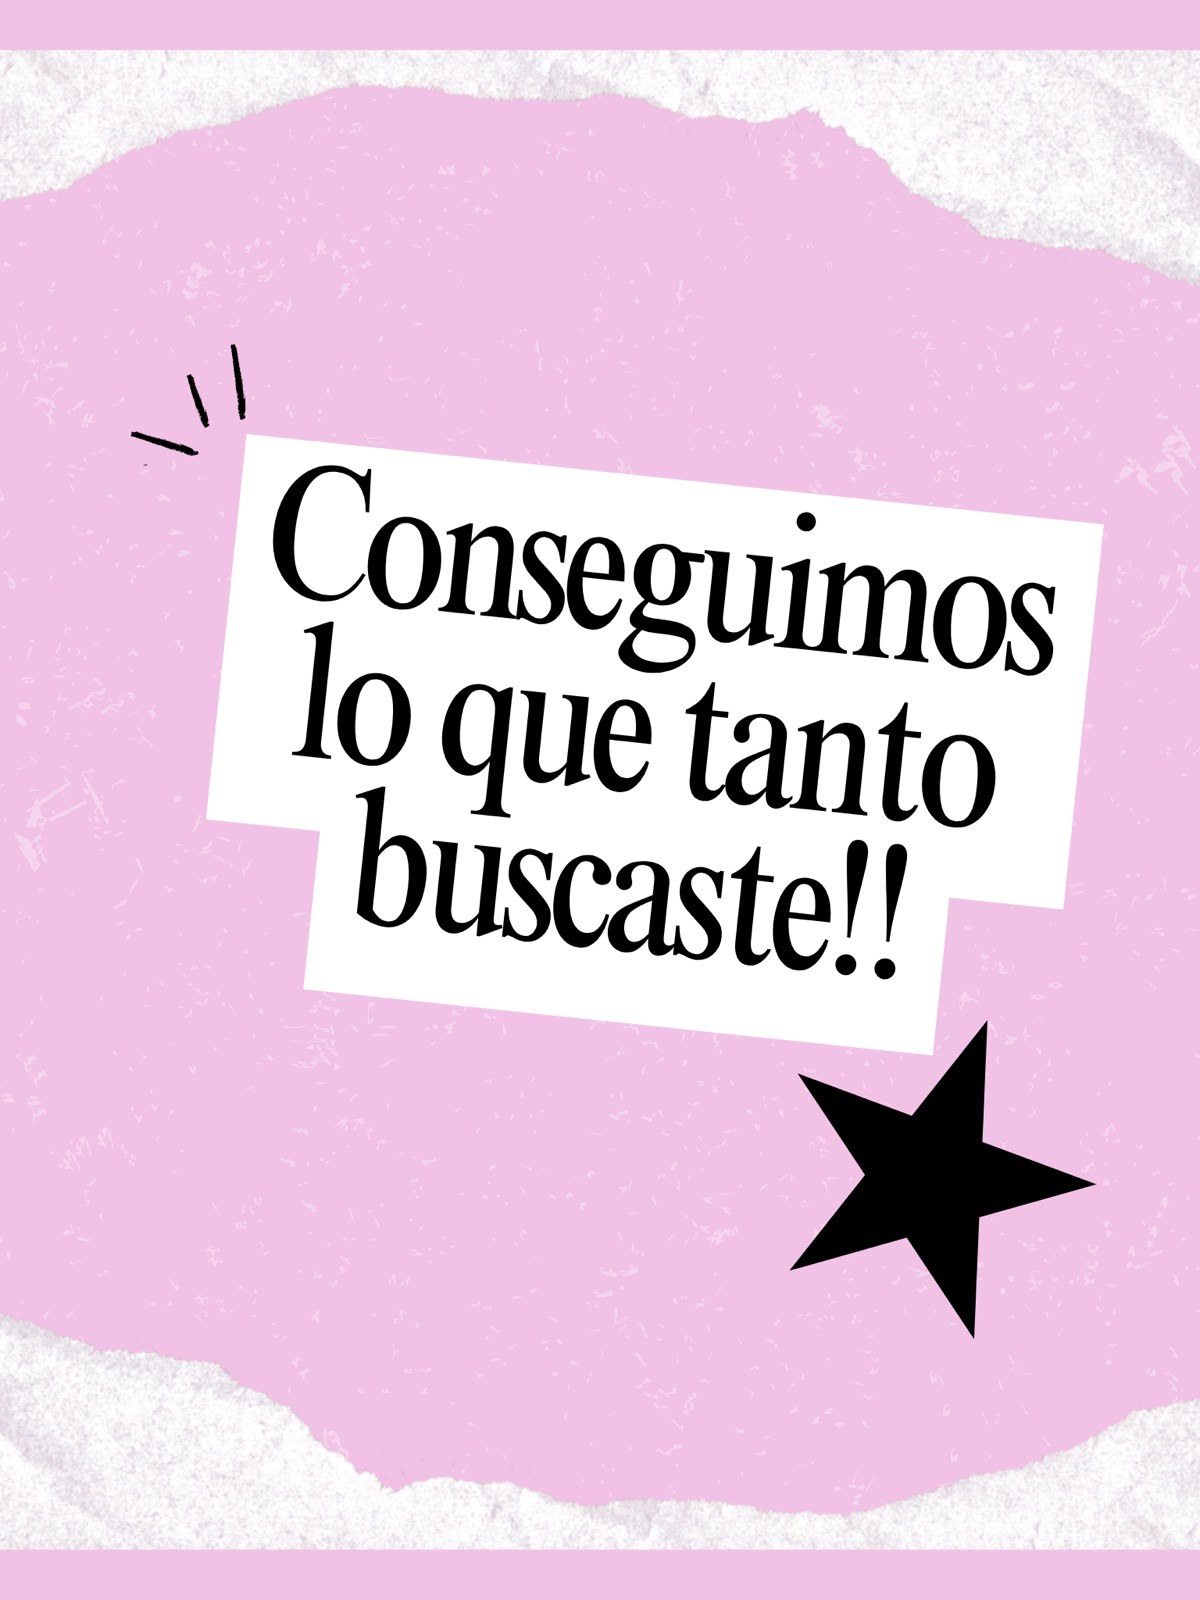
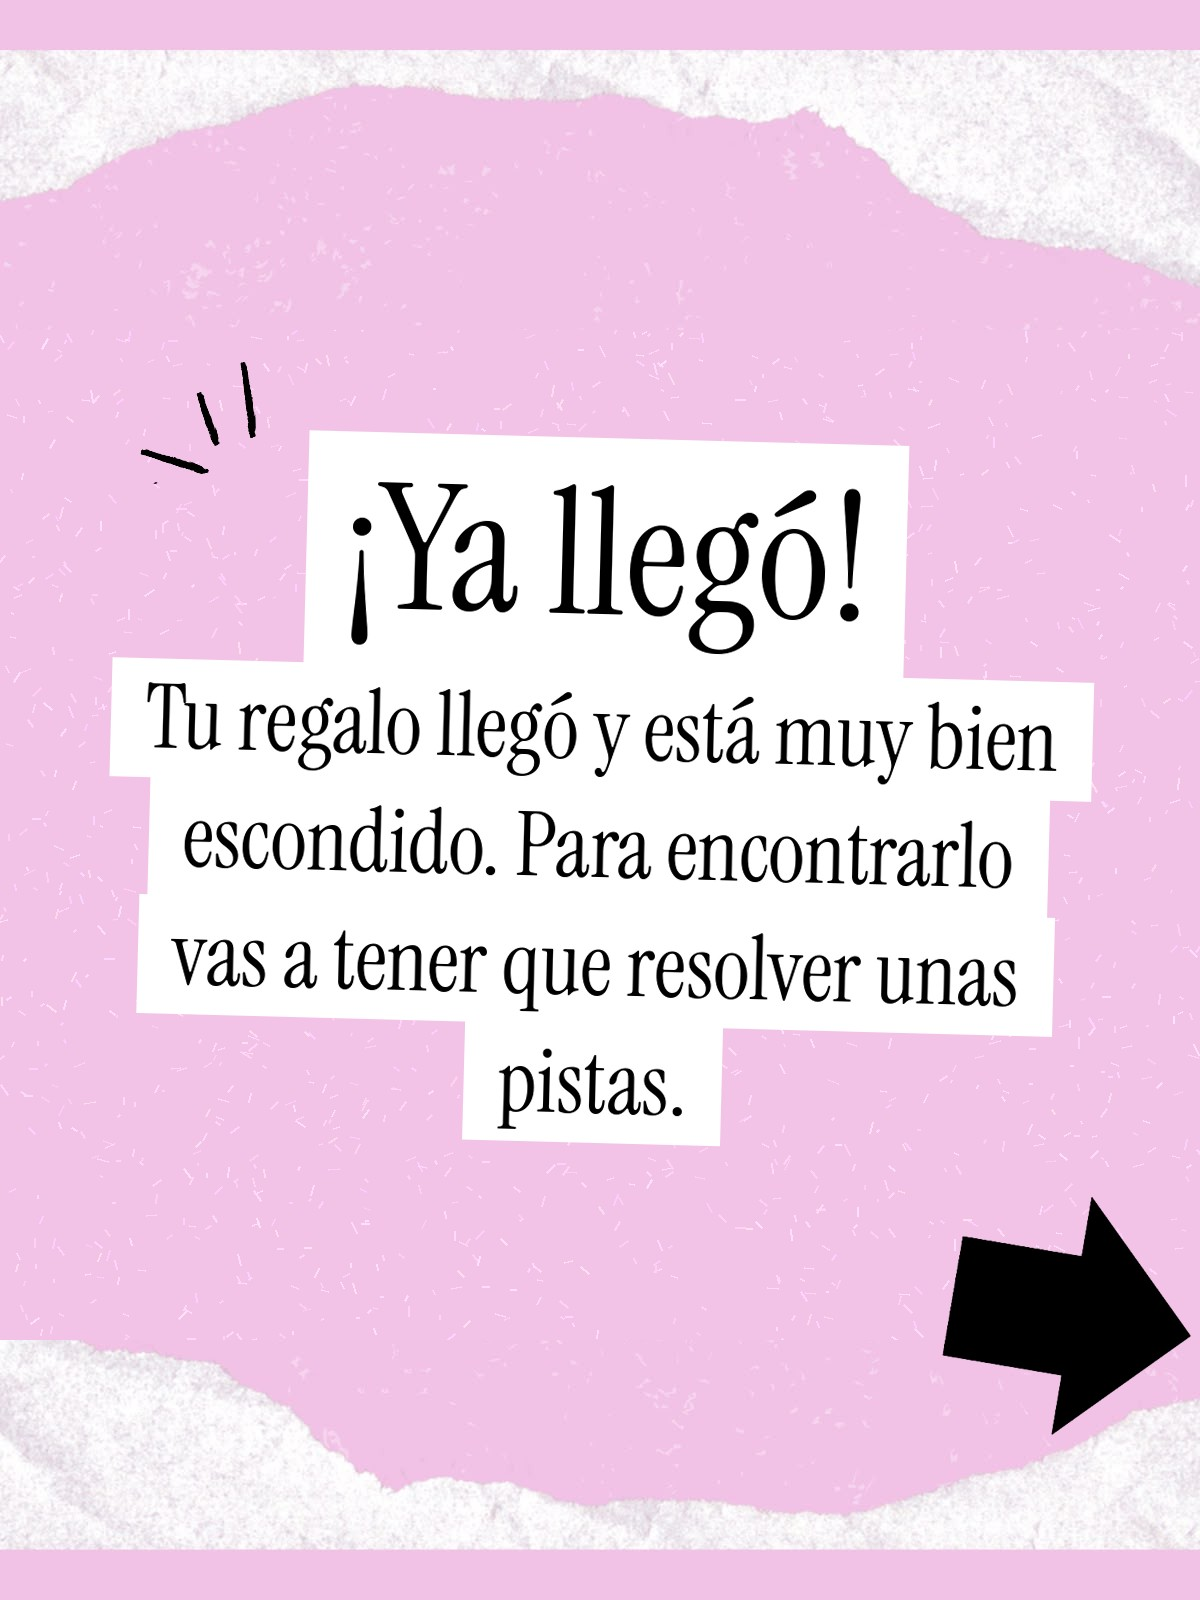
TV: quitar tarjeta 'Conseguimos lo que tanto buscaste'
Claude-Session: https://claude.ai/code/session_01KDmWqtRnH1Lmsi9zioCbbu

Changed region(s): [[0.0925, 0.2188, 0.9867, 0.9062], [0.0, 0.8125, 0.0308, 0.8438]]

diff --git a/index.html b/index.html
@@ -7,7 +7,7 @@ img{position:fixed;inset:0;margin:auto;height:100vh;max-width:100vw;object-fit:c
 img.on{opacity:1}
 </style></head><body>
 <script>
-const N=5,D=5000,im=[...Array(N)].map((_,i)=>{const e=new Image();e.src=`tv/${i+1}.jpg`;document.body.append(e);return e});
+const N=4,D=5000,im=[...Array(N)].map((_,i)=>{const e=new Image();e.src=`tv/${i+1}.jpg`;document.body.append(e);return e});
 let i=-1,t;const go=n=>{i=Math.max(0,Math.min(N-1,n));im.forEach((e,k)=>e.classList.toggle('on',k===i));clearTimeout(t);if(i<N-1)t=setTimeout(()=>go(i+1),D)};
 addEventListener('click',()=>{document.documentElement.requestFullscreen?.().catch(()=>{});i<0?go(0):go(i+1)});
 addEventListener('keydown',e=>{if(e.key==='ArrowLeft')go(i-1);else if(e.key==='r')go(0);else if(e.key!=='f')go(i+1);else document.documentElement.requestFullscreen?.()});
